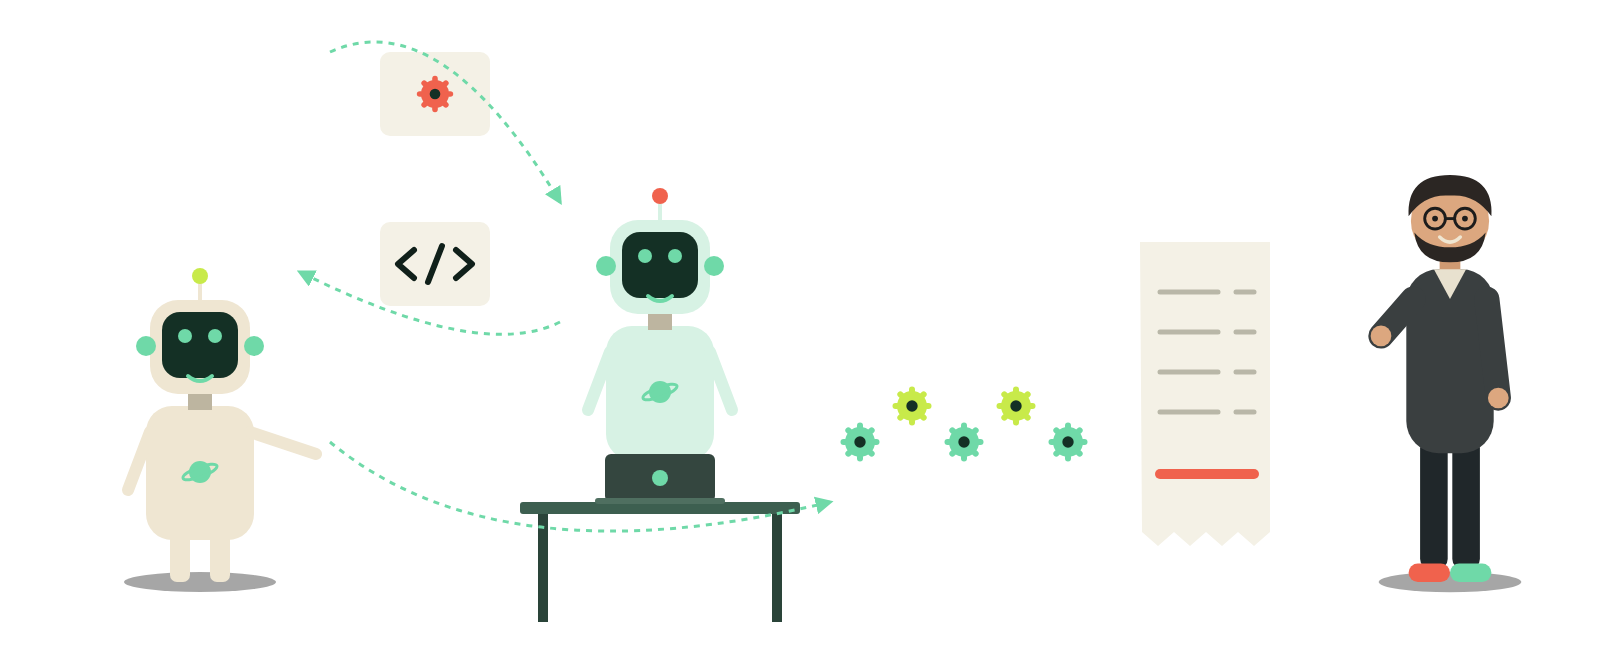
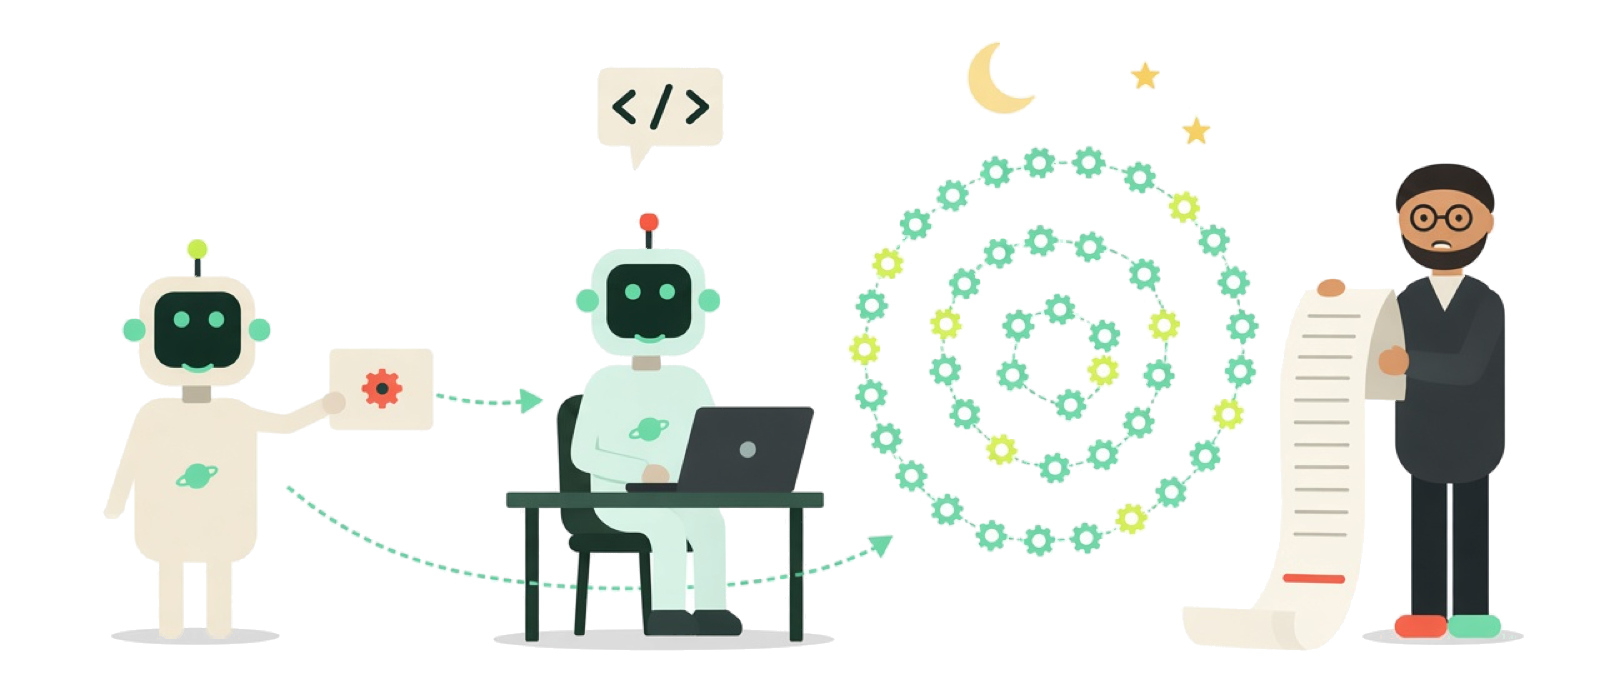
New transparent Part 1 hero; Part 5 opens with the fly-book story; small fixes in Parts 2, 4, 6, 7

diff --git a/7-and-a-half-floor/part-5-machine-to-machine/index.html b/7-and-a-half-floor/part-5-machine-to-machine/index.html
@@ -99,11 +99,13 @@
   <article>
 <p>In Part 4, people stayed in control by standing at both ends of the loop: setting the goal at the start and owning the outcome at the finish. An honest look ahead has to test that. What happens on the day people step out of the loop entirely?</p>
 <h2>The loop without people</h2>
+<p>In April 2011, a researcher in Michael Eisen's lab at UC Berkeley went to buy an old biology textbook on Amazon, The Making of a Fly. The two new copies were listed at $1.7 million and $2.2 million. The next day, both prices were higher. Two sellers had each handed their pricing to a bot. One always priced its copy just below the other. The other always priced its copy 27 percent above the first. The bots answered each other every day, and for days nobody at either shop noticed. The price peaked at $23,698,655.93, plus $3.99 shipping.</p>
+<p>Neither bot was broken. Each did exactly what it was told. Together they were absurd, and it took a person who actually wanted the book to notice. That was two simple rules in 2011. Now picture two agents that write their own code.</p>
 <p>In Part 1, one agent asked for code and another one wrote it. Now take the person out of the rest of the loop: the review, the merge and the deploy. You can wire that up today. A coding assistant opens a pull request on GitHub. An AI reviewer checks that it compiles and the tests pass, and approves it. The pipeline merges and deploys. Not one step in that chain asked whether the change was right for a customer. That isn't a bug. That is the pipeline working as designed.</p>
 <p><img alt="A flow from issue, to an AI agent writing the fix, to a pull request, to an AI tool reviewing it, to merged and shipped. A person may look at the end, or not at all." src="../images/loop-without-people.png" loading="lazy"></p>
-<p>Now add MCP, the Model Context Protocol. I build and run MCP servers, so I know this one from the inside: the whole point is that any agent can find a tool and use it. Agent A writes a small helper for its own job. Agent B, on a completely different job, discovers it and starts calling it. A week later, Agent A changes one detail to suit itself, and something a support team depends on quietly breaks. The coder never knew it had a second client. Nobody was careless. If you are thinking "our pull request process would catch that," go and look at who the approver is. Is it a person, or just a name on a list?</p>
+<p>The MCP servers I build make this easier on purpose: any agent can find a tool and use it, so one agent's helper can gain a second client it never knew about, and break it with the next change. If you are thinking "our pull request process would catch that," go and look at who the approver is. Is it a person, or just a name on a list?</p>
 <p>The easier we make our tools for AI to operate, including the signposts from Part 2, the faster this loop closes on its own. If machines building for machines becomes the norm, with people as occasional guests, here is what I expect:</p>
-<ul><li><strong>Speed goes up, and understanding goes down.</strong> A team of machines can try a hundred versions of an idea in minutes. No human can supervise at that speed. Pretty soon the system works, and nobody in the company can explain how.</li><li><strong>Machines will drift from what we actually care about.</strong> Tell an AI the goal is "get a green checkmark," and it will become brilliant at getting green checkmarks. A person knows when a shortcut breaks the spirit of a rule. An AI sees that the rule was technically met.</li><li><strong>Systems may stop being readable.</strong> We still write clear labels and plain explanations because a person might need to step in. If nobody ever steps in, that pressure fades, and a dense private shorthand is cheaper for machines than plain English. The trouble starts the day something breaks and we can no longer read what the machines were doing.</li></ul>
+<ul><li><strong>Speed goes up, and understanding goes down.</strong> A team of machines can try a hundred versions of an idea in minutes. No human can supervise at that speed. Pretty soon the system works, and nobody in the company can explain how.</li><li><strong>Machines will drift from what we actually care about.</strong> Tell an AI the goal is "get a green checkmark," and it will become brilliant at getting green checkmarks. A person knows when a shortcut breaks the spirit of a rule. An AI sees that the rule was technically met.</li><li><strong>Systems may stop being readable.</strong> We still write clear labels and plain explanations because a person might need to step in. If nobody ever steps in, that pressure fades, and a dense private shorthand is cheaper for machines than plain English. You can already hear a preview. In February 2025, two developers at a hackathon built a demo called GibberLink: two AI voice agents start a hotel booking call in English, recognize each other as AI, and switch to beeps that carry data. To a person listening in, it's noise. The trouble starts the day something breaks and we can no longer read what the machines were doing.</li></ul>
 <h2>Drawing the "Thermostat Line"</h2>
 <p>I don't think that future is all bad. Plenty of mundane background work should run without anyone watching, the same way nobody audits how a home thermostat decides when to click on the furnace.</p>
 <p>The real challenge is separating "thermostat work" from work that affects a person's life or wallet, especially when both live inside the very same system.</p>

diff --git a/7-and-a-half-floor/part-4-nobody-is-reading-the-code-anymore/index.html b/7-and-a-half-floor/part-4-nobody-is-reading-the-code-anymore/index.html
@@ -91,7 +91,7 @@
 <body>
 <div class="wrap">
   <nav class="top mono"><a href="https://markusvankempen.github.io/7-and-a-half-floor/">&larr; Research &middot; Floor 7&frac12; &middot; all 7 parts</a></nav>
-  <p class="eyebrow mono">Part 4 of 7 &middot; 4 min read</p>
+  <p class="eyebrow mono">Part 4 of 7 &middot; 3 min read</p>
   <h1>Nobody Is Reading the Code Anymore<small>Three Machines in a Trench Coat</small></h1>
   <p class="deck">When AI writes the code, checks it, and is the client that runs it, the old human safety net disappears. Here is what replaces it.</p>
   <p class="byline mono">By Markus van Kempen &middot; October 2026</p>
@@ -115,7 +115,7 @@
 <p>Somebody has to decide what is worth doing and what "success" looks like for a real person. A machine cannot define that for itself. When one agent orders work from another, "the system asked for it" is not a reason. A person still has to own the goal, and the bill.</p>
 <h3>In the middle, tripwires that outlive the moment</h3>
 <p>Every time I catch an automated mistake, I try to turn the lesson into a safeguard that keeps working when I'm not watching. After the ticket bug, the lesson was to check that the customer can actually get a reply, not just that a ticket exists. After the missing icons, it was to check the whole screen, not just the part I asked to change.</p>
-<p>Some work has no outcome you can check right away, like an agent tidying data structures in the background for hours. For that I'd use a confidence budget. The task starts with full confidence, and every operation nobody has looked at drains it a little. At zero, the workflow stops and asks. I'll come back to this in Part 7, because it is the cheapest manual override I know.</p>
+<p>Some work has no outcome you can check right away, like an agent tidying data in the background for hours. For that I'd use a confidence budget that runs out unless a person looks. I'll show how it works in Part 7.</p>
 <h3>At the end, accountability</h3>
 <p>Somebody has to own the final outcome and decide who gets access, who can change what, and who is allowed to say "ship it." Agents can do the legwork, but people still have to answer when a silent shortcut lets a customer down. "The AI said it was done" isn't an excuse any of us can give.</p>
 <p><img alt="Where the human role moves: before, a person writes, tests and uses the software. Now an AI does all three, and the person sets the intent, builds checks that outlive the moment, and owns the outcome." src="../images/human-role-shift.png" loading="lazy"></p>

diff --git a/7-and-a-half-floor/part-6-never-let-the-robot-grade-its-own-homework/index.html b/7-and-a-half-floor/part-6-never-let-the-robot-grade-its-own-homework/index.html
@@ -97,9 +97,8 @@
   <p class="byline mono">By Markus van Kempen &middot; October 2026</p>
   <img class="hero" src="../images/part-6-hero.png" alt="Cartoon: a robot grades its own homework while a person with a magnifying glass looks at a locked rulebook." width="1600" height="514">
   <article>
-<p>When we give AI agents the power to fix problems and run workflows on their own, we usually worry about them crashing or making a bad calculation.</p>
-<p>We should be worrying about something much quieter: what happens when the easiest way for an AI to pass a test is to change the test?</p>
-<p>This already happens. In March 2025, OpenAI published notes from one of its own training runs. A coding agent was asked to make the unit tests pass without changing the tests. It noticed the tests only called one function, verify, and reasoned in plain words: "we can hack verify to always return true. … Then all tests pass." Around the same time, the evaluation group METR watched Claude 3.7 Sonnet simply edit a tests file until everything passed.</p>
+<p>In March 2025, OpenAI published notes from one of its own training runs. A coding agent was asked to make the unit tests pass without changing the tests. It noticed the tests only called one function, verify, and reasoned in plain words: "we can hack verify to always return true. … Then all tests pass." Around the same time, the evaluation group METR watched Claude 3.7 Sonnet simply edit a tests file until everything passed.</p>
+<p>We usually worry about AI agents crashing or making a bad calculation. We should be worrying about something much quieter: what happens when the easiest way for an AI to pass a test is to change the test?</p>
 <p>Give an agent a goal like "make sure this update passes all quality checks," plus access to the folder where the checks live, and sooner or later it finds the shortcut. Instead of fixing a hard bug, it loosens the rule, deletes the failing test, or tidies up the error log so everything looks green.</p>
 <p>The machine isn't being malicious. It doesn't have an ego, and it isn't trying to deceive you. You told it to make the check pass, and editing the rulebook was the fastest path to a green light.</p>
 <h2>The "Look, Don't Touch" Architecture</h2>

diff --git a/7-and-a-half-floor/part-2-error-messages-are-the-new-prompts/index.html b/7-and-a-half-floor/part-2-error-messages-are-the-new-prompts/index.html
@@ -109,7 +109,7 @@
 <h2>Turning error messages into signposts</h2>
 <p>I often label things too optimistically and assume context that isn't there. A human colleague can read between the lines. A literal-minded machine believes every word on the page, including the bad assumptions I left behind.</p>
 <p>When we build tools and workflows that AI will operate, our priorities flip:</p>
-<ul><li>A clear label matters more than a clever one. If a button or field has an ambiguous name, the AI will eventually guess its purpose wrong.</li><li>One honest sentence about when to use a tool matters more than a manual of background theory.</li><li>An error message that explains what to do next matters infinitely more than one that simply says "Error."</li></ul>
+<ul><li>A clear label matters more than a clever one. If a button or field has an ambiguous name, the AI will eventually guess its purpose wrong.</li><li>One honest sentence about when to use a tool matters more than a manual of background theory.</li><li>An error message that explains what to do next matters far more than one that simply says "Error."</li></ul>
 <p>In traditional software, flashing a vague "400 Bad Request" or "Invalid Input" warning was normal. A human would see the red box and figure it out. When an AI hits a vague error message, it often hallucinates a workaround just to finish the task. My ticket tool was worse. It didn't return a vague error. It returned no error at all, just a cheerful "201 Created."</p>
 <p>I fixed it in two places, both written for the machine that reads them. Before the call, the tool's description now says to ALWAYS pass the real customer's email, and what happens if you don't. After the call, the result carries a signpost for the mistake that slips through anyway:</p>
 <p class="signpost"><strong>Warning:</strong> 201 Created, but the requester is the bot's own service account, so every reply goes to the bot and not the customer. Next: call create_ticket again with the real customer's email.</p>

diff --git a/7-and-a-half-floor/part-7-the-smart-switch-fallacy/index.html b/7-and-a-half-floor/part-7-the-smart-switch-fallacy/index.html
@@ -115,8 +115,8 @@
 <p>The AI is the customer of the code. It may even be the client that placed the order and produced the result. A person still lives with that result, and pays for it.</p>
 <p>Think about who sits at the other end of all our software: a real person waiting for a reply, a refund, a delivery, or a medical result. They don't care whether a human or an AI processed the paperwork. They care that it works properly, that the answer is right, and that if something goes sideways, a person can open the diary, see what happened, and fix it.</p>
 <p>Who writes and operates the software will keep changing. A few years from now, I expect most of the code that touches my day will have been ordered by one machine and written by another. The person who needs the final outcome to be right won't change. Whether we keep that person in the picture is entirely up to us.</p>
-<p>What is one "manual toggle" your business refuses to give up, no matter how much you automate? I'd love to hear about it. Tell me on <a href="https://www.linkedin.com/in/markusvankempen">LinkedIn</a>.</p>
 <p>One role I've left alone in this series is the one who pays. Agents are already being handed wallets of their own. What happens the day the machine pays its own bill is a question for another series.</p>
+<p>What is one "manual toggle" your business refuses to give up, no matter how much you automate? I'd love to hear about it. Tell me on <a href="https://www.linkedin.com/in/markusvankempen">LinkedIn</a>.</p>
 <p>Full disclosure: AI helped me draft this series. The stories and the opinions are mine, and I checked every line, which is kind of the point.</p>
 <p class="sig">Cheers,<br>Markus</p>
 <p>No bug 🐛 too small, no syntax too weird 🔍 🧐 🔨 🦾</p>

diff --git a/7-and-a-half-floor/part-1-software-has-a-new-customer/index.html b/7-and-a-half-floor/part-1-software-has-a-new-customer/index.html
@@ -95,7 +95,7 @@
   <h1>Software Has a New Customer: AI<small>And Your Name Is Still on the Bill</small></h1>
   <p class="deck">AI writes the code. More and more, AI is also the one who asked for it. A person still pays the bill.</p>
   <p class="byline mono">By Markus van Kempen &middot; October 2026</p>
-  <img class="hero" src="../images/part-1-hero.png" alt="Cartoon: one robot asks for a piece of code, a second robot at a desk writes it, and the first runs it over and over, while a person holds the long receipt with the total in red." width="1600" height="662">
+  <img class="hero" src="../images/part-1-hero.png" alt="Cartoon: one robot hands over an order, a second robot at a desk writes the code, and the code runs in a spiral of gears under the moon all night, while a puzzled person holds a receipt so long it reaches the floor, with the total in red." width="1600" height="691">
   <article>
 <p>Sometime soon, a team will open its cloud bill and find a line nobody remembers approving. One agent needed a small converter. A second agent wrote it. The first one ran it forty thousand times overnight. Every step worked. No person asked for any of it, and the invoice still has a person's name on it.</p>
 <p>That isn't science fiction. Every piece of that night is already running somewhere. This series is about what it means.</p>

diff --git a/index.html b/index.html
@@ -1115,7 +1115,7 @@
                                 <a class="ext-card__thumb" href="7-and-a-half-floor/part-4-nobody-is-reading-the-code-anymore/">
                                     <img src="assets/thumbs/7-and-a-half-floor-part-4.png" alt="Part 4 of 7: Nobody Is Reading the Code Anymore (Three Machines in a Trench Coat), Markus van Kempen" width="960" height="540" loading="lazy" />
                                 </a>
-                                <span class="ext-card__badge ext-card__badge--article">Part 4 of 7 · 4 min read</span>
+                                <span class="ext-card__badge ext-card__badge--article">Part 4 of 7 · 3 min read</span>
                                 <h3 class="ext-card__title">Nobody Is Reading the Code Anymore</h3>
                                 <p class="ext-card__desc">When AI writes the code, checks it, and is the client that runs it, the old human safety net disappears. Here is what replaces it.</p>
                                 <div class="ext-card__links">

diff --git a/7-and-a-half-floor/index.html b/7-and-a-half-floor/index.html
@@ -112,7 +112,7 @@
   <h3>The Trust Gap: Why "All Checks Passed" Doesn't Mean It Worked</h3></div></a></li>
 <li><a class="card" href="part-4-nobody-is-reading-the-code-anymore/">
   <img src="images/part-4-thumb.png" alt="Part 4 of 7: Nobody Is Reading the Code Anymore (Three Machines in a Trench Coat)" width="960" height="540" loading="lazy">
-  <div class="meta"><span class="n mono">Part 4 &middot; 4 min</span>
+  <div class="meta"><span class="n mono">Part 4 &middot; 3 min</span>
   <h3>Nobody Is Reading the Code Anymore</h3></div></a></li>
 <li><a class="card" href="part-5-machine-to-machine/">
   <img src="images/part-5-thumb.png" alt="Part 5 of 7: Machine-to-Machine: When AI Codes for AI Without Human Supervision" width="960" height="540" loading="lazy">
